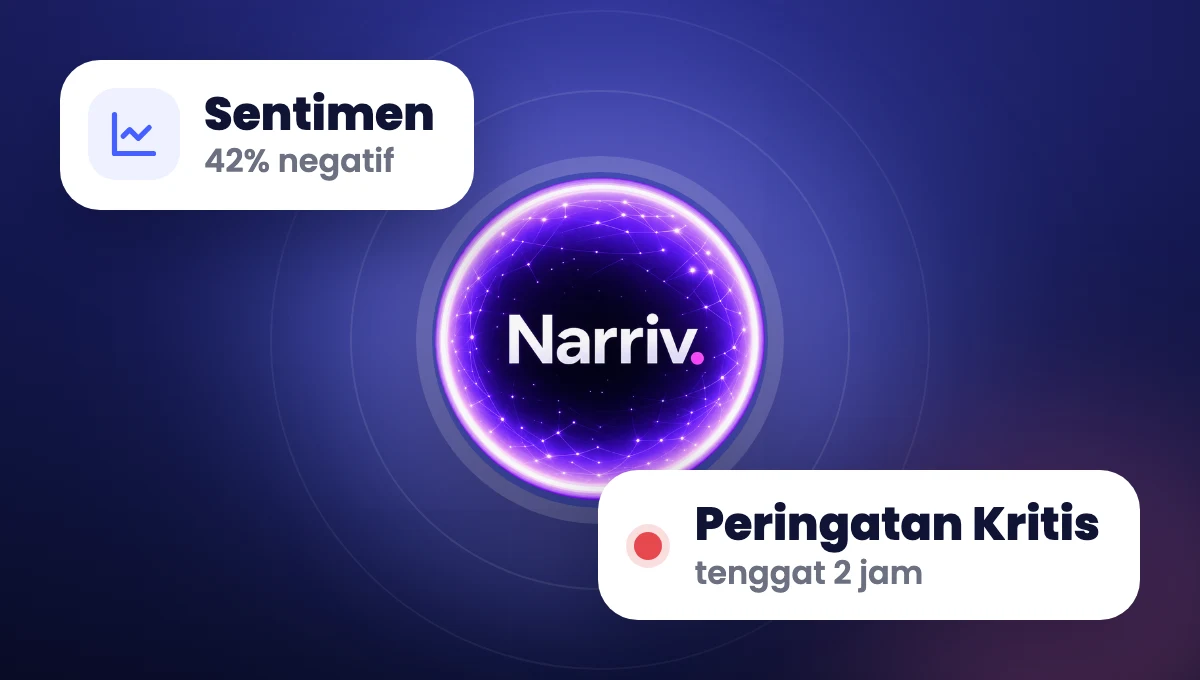
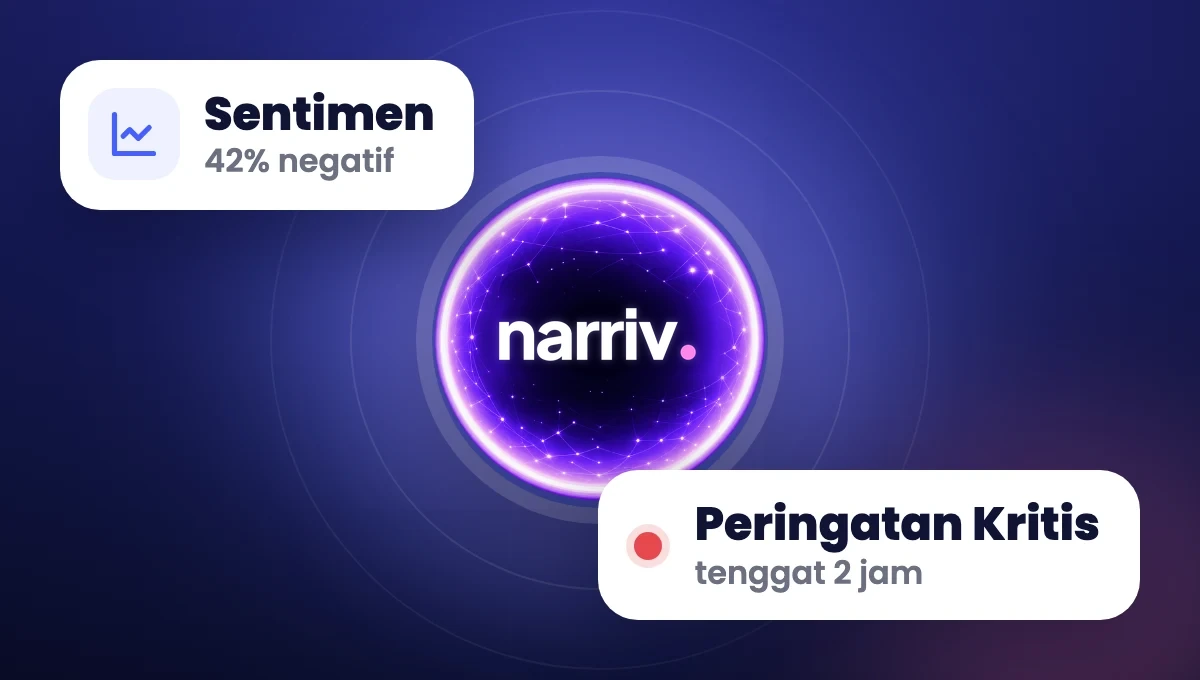
New narriv. wordmark everywhere, centred on the orb
- Orb logos (login, landing, launch, pitch), app icons, Apple icons and favicons: the new lowercase narriv.
  replaces Narriv., centred on the orb itself (the old text sat off-centre) at 60% of the orb's width
- Demo picker cards and the OG share image carry the new wordmark; logo-h / logo-p and the email logo are the
  new wordmark files
- Icons get new file names (favicon-nv, app-nv, apple-nv) so browsers drop their cached old favicon
- Old unused logo files are removed (blue N. icons, old manifest.json, old wordmarks and badges)

Changed region(s): [[0.4008, 0.4324, 0.6167, 0.5868]]

diff --git a/frontend/app/manifest.ts b/frontend/app/manifest.ts
@@ -18,16 +18,16 @@ export default function manifest(): MetadataRoute.Manifest {
     theme_color: "#F8FAFC",
     icons: [
       // Round orb with transparent corners; launchers that mask icons use the full-bleed maskable one below.
-      { src: "/brand/app-orb-round-192.png", sizes: "192x192", type: "image/png", purpose: "any" },
-      { src: "/brand/app-orb-round-512.png", sizes: "512x512", type: "image/png", purpose: "any" },
-      { src: "/brand/app-orb-512.png", sizes: "512x512", type: "image/png", purpose: "maskable" },
+      { src: "/brand/app-nv-round-192.png", sizes: "192x192", type: "image/png", purpose: "any" },
+      { src: "/brand/app-nv-round-512.png", sizes: "512x512", type: "image/png", purpose: "any" },
+      { src: "/brand/app-nv-512.png", sizes: "512x512", type: "image/png", purpose: "maskable" },
     ],
     // Long-press the home-screen icon to jump straight to these.
     shortcuts: [
-      { name: "Hari Ini", short_name: "Hari Ini", description: "Ringkasan hari ini", url: "/", icons: [{ src: "/brand/app-orb-round-192.png", sizes: "192x192", type: "image/png" }] },
-      { name: "Isu", short_name: "Isu", description: "Peta isu dan narasi", url: "/intelligence", icons: [{ src: "/brand/app-orb-round-192.png", sizes: "192x192", type: "image/png" }] },
-      { name: "Peringatan", short_name: "Peringatan", description: "Peringatan yang perlu ditindaklanjuti", url: "/alerts", icons: [{ src: "/brand/app-orb-round-192.png", sizes: "192x192", type: "image/png" }] },
-      { name: "Laporan", short_name: "Laporan", description: "Laporan brand", url: "/reports", icons: [{ src: "/brand/app-orb-round-192.png", sizes: "192x192", type: "image/png" }] },
+      { name: "Hari Ini", short_name: "Hari Ini", description: "Ringkasan hari ini", url: "/", icons: [{ src: "/brand/app-nv-round-192.png", sizes: "192x192", type: "image/png" }] },
+      { name: "Isu", short_name: "Isu", description: "Peta isu dan narasi", url: "/intelligence", icons: [{ src: "/brand/app-nv-round-192.png", sizes: "192x192", type: "image/png" }] },
+      { name: "Peringatan", short_name: "Peringatan", description: "Peringatan yang perlu ditindaklanjuti", url: "/alerts", icons: [{ src: "/brand/app-nv-round-192.png", sizes: "192x192", type: "image/png" }] },
+      { name: "Laporan", short_name: "Laporan", description: "Laporan brand", url: "/reports", icons: [{ src: "/brand/app-nv-round-192.png", sizes: "192x192", type: "image/png" }] },
     ],
     prefer_related_applications: false,
   };

diff --git a/frontend/components/layout/Sidebar.tsx b/frontend/components/layout/Sidebar.tsx
@@ -70,7 +70,7 @@ export function Sidebar() {
         {/* Same height and divider as the top bar, so the logo sits on the same line as the search box. */}
         <div className="relative flex h-[88px] shrink-0 items-center border-b border-white/10 px-4">
           <Link href="/" aria-label="Narriv" className="relative block h-10 w-full">
-            <Image src="/brand/favicon-orb-96.png" alt="" width={40} height={40} priority className={cn("absolute left-0 top-0 size-10 transition-opacity duration-200", collapsed ? "opacity-100" : "opacity-0")} />
+            <Image src="/brand/favicon-nv-96.png" alt="" width={40} height={40} priority className={cn("absolute left-0 top-0 size-10 transition-opacity duration-200", collapsed ? "opacity-100" : "opacity-0")} />
             <Image src="/brand/logo-p.webp" alt="Narriv" width={128} height={48} priority className={cn("absolute left-1 top-1 h-8 w-auto transition-opacity duration-200", collapsed ? "opacity-0" : "opacity-100")} />
           </Link>
         </div>
@@ -197,7 +197,7 @@ export function Sidebar() {
           aria-current={pathname?.startsWith("/ask") ? "page" : undefined}
           className={`flex h-[52px] min-w-0 flex-col items-center justify-center gap-1 rounded-xl px-1 transition ${pathname?.startsWith("/ask") ? "bg-[#465FFF] text-white" : "text-white/60 hover:text-white"}`}
         >
-          <Image src="/brand/app-orb-round-192.png" alt="" width={20} height={20} unoptimized className="size-5 rounded-full" />
+          <Image src="/brand/app-nv-round-192.png" alt="" width={20} height={20} unoptimized className="size-5 rounded-full" />
           <span className="w-full truncate text-center text-[10px] font-bold leading-none">Ask</span>
         </Link>
       </nav>

diff --git a/backend/src/lib/email-layout.js b/backend/src/lib/email-layout.js
@@ -47,7 +47,7 @@ export function emailLayout({ lang = "en", title, preheader, kicker, body, reaso
 <tr><td align="center" style="padding:32px 12px">
 <table role="presentation" width="600" cellpadding="0" cellspacing="0" border="0" style="width:100%;max-width:600px;background:#ffffff;border-radius:20px;overflow:hidden;border:1px solid ${LINE}">
 <tr><td align="center" style="background:${INK};padding:30px 28px 26px;text-align:center">
-<a href="${SITE_URL}" style="text-decoration:none"><img src="${LOGO_URL}" width="132" height="32" alt="Narriv" style="display:block;margin:0 auto;border:0;width:132px;height:auto;color:#ffffff;font:800 24px ${FONT}"></a>
+<a href="${SITE_URL}" style="text-decoration:none"><img src="${LOGO_URL}" width="132" height="36" alt="Narriv" style="display:block;margin:0 auto;border:0;width:132px;height:auto;color:#ffffff;font:800 24px ${FONT}"></a>
 ${kicker ? `<div style="margin-top:14px;font:700 11px/1.4 ${FONT};letter-spacing:2px;text-transform:uppercase;color:#A5B4FF">${esc(kicker)}</div>` : ""}
 </td></tr>
 <tr><td style="height:4px;line-height:4px;font-size:0;background:#8B5CF6;background-image:linear-gradient(90deg,#465FFF,#8B5CF6 55%,#EC4899)">&nbsp;</td></tr>

diff --git a/frontend/app/pasang/page.tsx b/frontend/app/pasang/page.tsx
@@ -73,7 +73,7 @@ export default function InstallPage() {
         <div aria-hidden="true" className="pointer-events-none absolute -top-40 left-1/2 h-[520px] w-[1100px] -translate-x-1/2 rounded-full bg-[radial-gradient(closest-side,rgba(70,95,255,0.35),transparent)]" />
         <SiteHeader />
         <div className="relative mx-auto mt-8 flex max-w-xl flex-col items-center px-4 text-center sm:px-6">
-          <Image src="/brand/app-orb-192.png" alt="" width={88} height={88} priority className="size-[88px] rounded-[24px] shadow-[0_20px_50px_rgba(70,95,255,0.45)]" />
+          <Image src="/brand/app-nv-192.png" alt="" width={88} height={88} priority className="size-[88px] rounded-[24px] shadow-[0_20px_50px_rgba(70,95,255,0.45)]" />
           <h1 className={cn("mt-6 text-[34px] leading-tight sm:text-[44px]", SERIF)}>{L("Install Narriv on your phone", "Pasang Narriv di HP")}</h1>
           <p className="mt-3 max-w-md text-[16px] font-medium leading-7 text-white/65">
             {L("Open it straight from your home screen, full screen like an app.", "Buka langsung dari layar utama HP, tampil penuh seperti aplikasi.")}

diff --git a/frontend/app/layout.tsx b/frontend/app/layout.tsx
@@ -53,12 +53,12 @@ export const metadata: Metadata = {
   // The round Narriv orb (public/logo-bulat-narriv-2026.png, cropped square); new file names so browsers drop cached icons.
   icons: {
     icon: [
-      { url: "/brand/favicon-orb-32.png", sizes: "32x32", type: "image/png" },
-      { url: "/brand/favicon-orb-48.png", sizes: "48x48", type: "image/png" },
-      { url: "/brand/favicon-orb-192.png", sizes: "192x192", type: "image/png" },
+      { url: "/brand/favicon-nv-32.png", sizes: "32x32", type: "image/png" },
+      { url: "/brand/favicon-nv-48.png", sizes: "48x48", type: "image/png" },
+      { url: "/brand/favicon-nv-192.png", sizes: "192x192", type: "image/png" },
     ],
-    shortcut: "/brand/favicon-orb-48.png",
-    apple: "/brand/apple-orb-round-180.png",
+    shortcut: "/brand/favicon-nv-48.png",
+    apple: "/brand/apple-nv-round-180.png",
   },
   // Opened from the home screen, iOS shows Narriv full screen without the browser bars.
   appleWebApp: { capable: true, title: "Narriv", statusBarStyle: "default" },

diff --git a/frontend/app/welcome/page.tsx b/frontend/app/welcome/page.tsx
@@ -328,7 +328,7 @@ function Comparison() {
       <div className="relative grid grid-cols-2 gap-x-6 gap-y-3 px-3 py-6 sm:gap-x-16 sm:px-8 sm:py-8">
         <p className="pb-2 text-center text-[13px] font-bold text-[#8A8F9E] sm:text-[15px]">{L("Conventional Monitoring", "Monitoring Konvensional")}</p>
         <p className="flex items-center justify-center gap-2 pb-2 text-[13px] font-black text-white sm:text-[15px]">
-          <img src="/brand/favicon-orb-48.png" alt="" width={22} height={22} className="size-[22px] rounded-full" />
+          <img src="/brand/favicon-nv-48.png" alt="" width={22} height={22} className="size-[22px] rounded-full" />
           Narriv
         </p>
         {rows.map(([plain, narriv], i) => (

diff --git a/frontend/components/layout/Topbar.tsx b/frontend/components/layout/Topbar.tsx
@@ -440,7 +440,7 @@ export function Topbar() {
           aria-current={pathname?.startsWith("/ask") ? "page" : undefined}
           className="hidden h-10 shrink-0 items-center gap-2 rounded-[10px] bg-[#101334] pl-1.5 pr-3.5 text-[12.5px] font-black text-white transition hover:bg-[#2B2F9E] lg:inline-flex"
         >
-          <Image src="/brand/app-orb-round-192.png" alt="" width={28} height={28} unoptimized className="size-7 rounded-full" />
+          <Image src="/brand/app-nv-round-192.png" alt="" width={28} height={28} unoptimized className="size-7 rounded-full" />
           <span>Ask Narriv</span>
         </Link>
         {/* Both languages visible; the active one is filled, a click switches. */}
